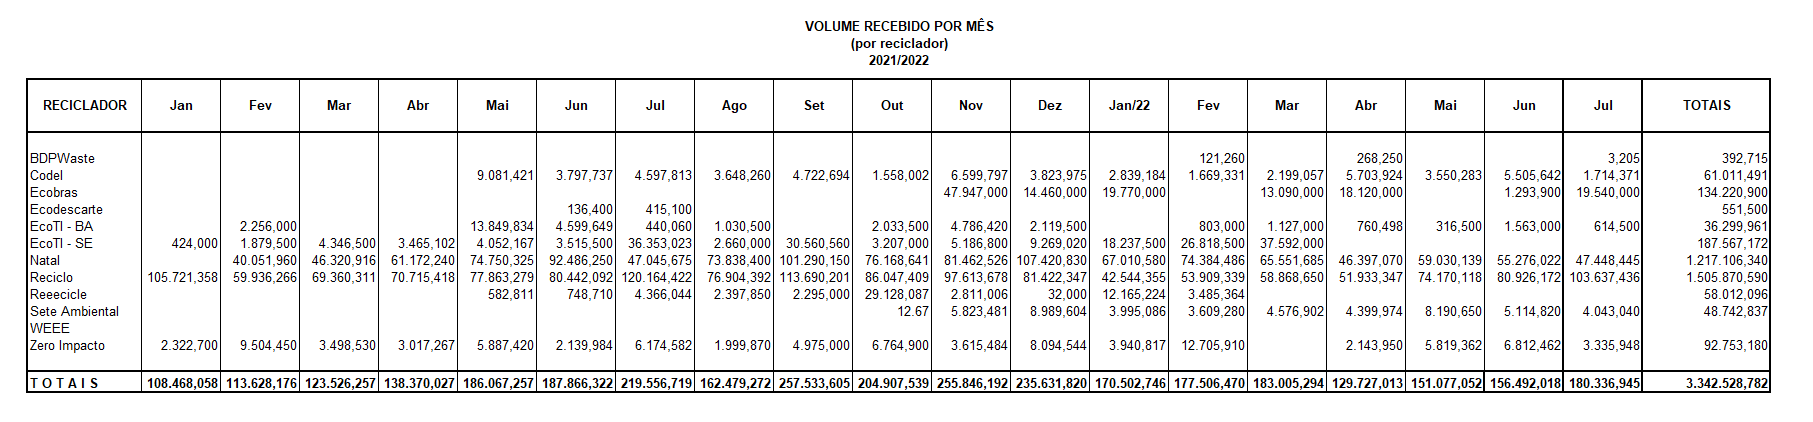
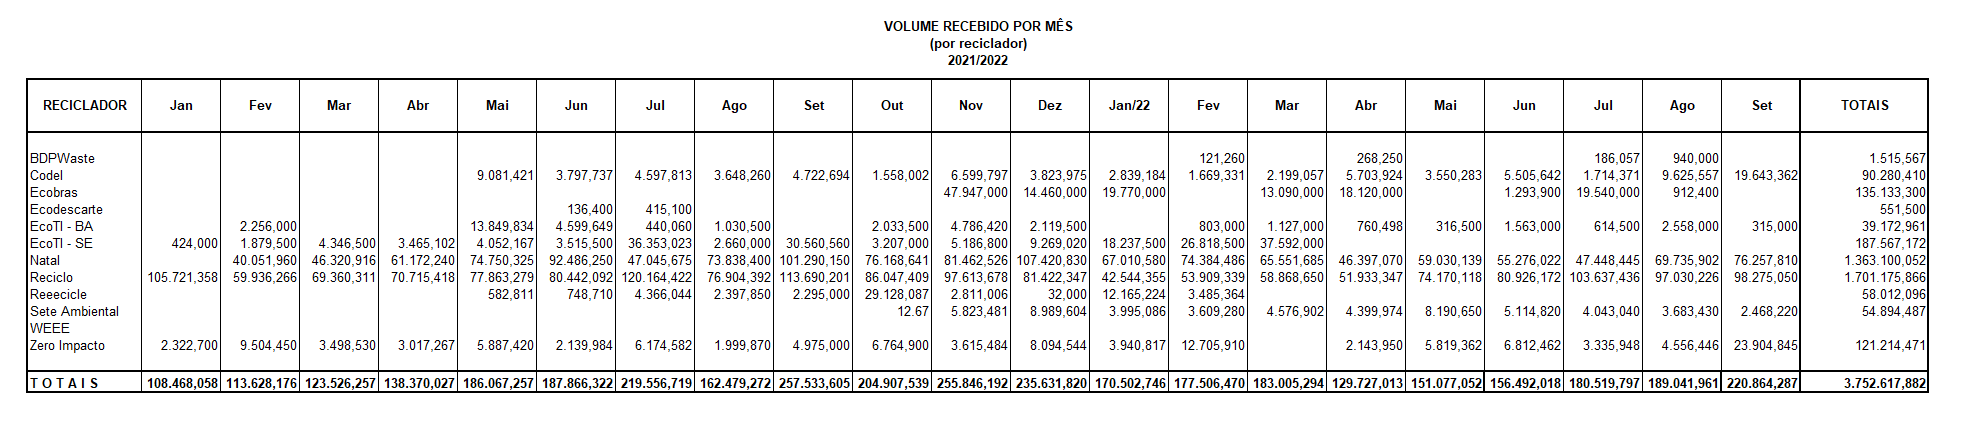
Atualização Set/22

diff --git a/frontend/src/components/DataTable/index.tsx b/frontend/src/components/DataTable/index.tsx
@@ -9,32 +9,32 @@ const DataTable = () => {
                         <th>OT's</th>
                         <th>OS's</th>
                         <th>OD's</th>
-                        <th>Estoque em 31/07/22 (Kg)</th>
+                        <th>Estoque em 30/09/22 (Kg)</th>
                         <th>Peso Reciclado (Kg)</th>
                         
                     </tr>
                     <tr>
                         <td>BDPWaste</td>
-                        <td>0</td>
-                        <td>10</td>
+                        <td>1</td>
+                        <td>11</td>
                         <td>0</td>
                         <td>331,974</td>
                         <td>0</td>
                     </tr>
                     <tr>
                         <td>Codel</td>
-                        <td>115</td>
-                        <td>229</td>
-                        <td>523</td>
-                        <td>12.678,846</td>
-                        <td>42.152,688</td>
+                        <td>145</td>
+                        <td>279</td>
+                        <td>584</td>
+                        <td>17.592,137</td>
+                        <td>66.203,473</td>
                     </tr>
                     <tr>
                         <td>Ecobras</td>
                         <td>0</td>
-                        <td>16</td>
+                        <td>17</td>
                         <td>23</td>
-                        <td>97.901,510</td>
+                        <td>98.813,910</td>
                         <td>46.304,400</td>
                     </tr>
                     <tr>
@@ -48,10 +48,10 @@ const DataTable = () => {
                     <tr>
                         <td>EcoTI - BA</td>
                         <td>24</td>
-                        <td>56</td>
-                        <td>47</td>
-                        <td>17.563,667</td>
-                        <td>8.521,360</td>
+                        <td>64</td>
+                        <td>49</td>
+                        <td>18.491,556</td>
+                        <td>9.459,471</td>
                     </tr>
                     <tr>
                         <td>EcoTI - SE</td>
@@ -63,19 +63,19 @@ const DataTable = () => {
                     </tr>
                     <tr>
                         <td>Natal</td>
-                        <td>341</td>
-                        <td>2.147</td>
-                        <td>355</td>
-                        <td>114.610,367</td>
-                        <td>1.087.780,097</td>
+                        <td>444</td>
+                        <td>2.573</td>
+                        <td>409</td>
+                        <td>96.775,163</td>
+                        <td>1.223.514,280</td>
                     </tr>
                     <tr>
                         <td>Reciclo</td>
-                        <td>694</td>
-                        <td>1.583</td>
-                        <td>1.124</td>
-                        <td>62.258,696</td>
-                        <td>1.547.504,428</td>
+                        <td>850</td>
+                        <td>1.785</td>
+                        <td>1.301</td>
+                        <td>81.566,652</td>
+                        <td>1.743.463,517</td>
                     </tr>
                     <tr>
                         <td>Reeecicle</td>
@@ -87,10 +87,10 @@ const DataTable = () => {
                     </tr>
                     <tr>
                         <td>Sete Ambiental</td>
-                        <td>915</td>
-                        <td>675</td>
+                        <td>964</td>
+                        <td>728</td>
                         <td>17</td>
-                        <td>42.674,189</td>
+                        <td>48.847,222</td>
                         <td>609,600</td>
                     </tr>
                     <tr>
@@ -104,10 +104,10 @@ const DataTable = () => {
                     <tr>
                         <td>Zero Impacto</td>
                         <td>85</td>
-                        <td>482</td>
-                        <td>56</td>
-                        <td>61.359,873</td>
-                        <td>29.497,159</td>
+                        <td>565</td>
+                        <td>74</td>
+                        <td>77.091,958</td>
+                        <td>53.244,294</td>
                     </tr>
                     <tr>
                         <td> </td>
@@ -119,11 +119,11 @@ const DataTable = () => {
                     </tr>
                     <tr>
                         <th>T O T A I S</th>
-                        <th>2.274</th>
-                        <th>5.570</th>
-                        <th>2.269</th>
-                        <th>542.738,008</th>
-                        <th>2.788.054,462</th>
+                        <th>2.612</th>
+                        <th>6.393</th>
+                        <th>2.581</th>
+                        <th>572.869,458</th>
+                        <th>3.168.483,765</th>
                     </tr>
                 </thead>
                 <tbody>

diff --git a/frontend/src/components/BarRecbMensal/index.tsx b/frontend/src/components/BarRecbMensal/index.tsx
@@ -16,12 +16,12 @@ const BarRecbMensal = () => {
     
     const mockData = {
         labels: {
-            categories: ['Jan', 'Fev', 'Mar', 'Abr', 'Mai', 'Jun', 'Jul', 'Ago', 'Set', 'Out', 'Nov', 'Dez', 'Jan/22', 'Fev', 'Mar', 'Abr', 'Mai', 'Jun', "Jul"]
+            categories: ['Jan', 'Fev', 'Mar', 'Abr', 'Mai', 'Jun', 'Jul', 'Ago', 'Set', 'Out', 'Nov', 'Dez', 'Jan/22', 'Fev', 'Mar', 'Abr', 'Mai', 'Jun', "Jul", "Ago", "Set"]
         },
         series: [
             {
                 name: "Kg Recebidos",
-                data: [108468, 113628,	123526, 138370, 186067, 187866, 219556, 162479, 257534, 204908, 255846, 235632, 170503, 177506, 183005, 129727, 151077, 156492, 180337]                  
+                data: [108468, 113628,	123526, 138370, 186067, 187866, 219556, 162479, 257534, 204908, 255846, 235632, 170503, 177506, 183005, 129727, 151077, 156492, 180337, 189042, 220864]                  
             }
         ]
     };

diff --git a/frontend/src/components/BarReciclMensal/index.tsx b/frontend/src/components/BarReciclMensal/index.tsx
@@ -16,12 +16,12 @@ const BarReciclMensal = () => {
     
     const mockData = {
         labels: {
-            categories: ['Jan', 'Fev', 'Mar', 'Abr', 'Mai', 'Jun', 'Jul', 'Ago', 'Set', 'Out', 'Nov', 'Dez', 'Jan/22', 'Fev', 'Mar', 'Abr', 'Mai', 'Jun', 'Jul']
+            categories: ['Jan', 'Fev', 'Mar', 'Abr', 'Mai', 'Jun', 'Jul', 'Ago', 'Set', 'Out', 'Nov', 'Dez', 'Jan/22', 'Fev', 'Mar', 'Abr', 'Mai', 'Jun', 'Jul', "Ago", "Set"]
         },
         series: [
             {
                 name: "Kg Reciclados",
-                data: [26339, 90712, 93643, 142116, 166545, 219788, 189244, 197028, 209382, 176002, 176982, 162728, 128780, 136990, 181336, 84713, 112874, 154528, 138325]                  
+                data: [26339, 90712, 93643, 142116, 166545, 219788, 189244, 197028, 209382, 176002, 176982, 162728, 128780, 136990, 181336, 84713, 112874, 154528, 138325, 172608, 207822]                  
             }
         ]
     };

diff --git a/frontend/src/components/BarChart/index.tsx b/frontend/src/components/BarChart/index.tsx
@@ -17,7 +17,7 @@ const BarChart = () => {
         series: [
             {
                 name: "Ton Reciclados",
-                data: [0, 42.153, 46.304, 0, 8.521, 25.501, 1087.780, 1547.504, 0.184, 0.610, 0, 29.497]                  
+                data: [0, 66.203, 46.304, 0, 9.459, 25.501, 1223.514, 1743.464, 0.184, 0.610, 0, 53.244]                  
             }
         ]
     };

diff --git a/frontend/src/components/BarOSs/index.tsx b/frontend/src/components/BarOSs/index.tsx
@@ -22,7 +22,7 @@ const BarOSs = () => {
         series: [
             {
                 name: "OS's Abertas",
-                data: [10, 229, 16, 6, 56, 158, 2147, 1583, 206, 675, 12, 482]                  
+                data: [11, 279, 17, 6, 64, 158, 2573, 1785, 206, 728, 12, 565]                  
             }
         ]
     };

diff --git a/frontend/src/components/BarODs/index.tsx b/frontend/src/components/BarODs/index.tsx
@@ -22,7 +22,7 @@ const BarODs = () => {
         series: [
             {
                 name: "OD's Abertas",
-                data: [0, 523, 23, 0, 47, 52, 355, 1124, 1, 17, 71, 56]                  
+                data: [0, 584, 23, 0, 49, 52, 409, 1301, 1, 17, 71, 74]                  
             }
         ]
     };

diff --git a/frontend/src/components/BarOTs/index.tsx b/frontend/src/components/BarOTs/index.tsx
@@ -22,7 +22,7 @@ const BarOTs = () => {
         series: [
             {
                 name: "OT's Abertas",
-                data: [0, 115, 0, 37, 24, 14, 341, 694, 49, 915, 0, 85]                  
+                data: [1, 145, 0, 37, 24, 14, 444, 850, 49, 964, 0, 85]                  
             }
         ]
     };
